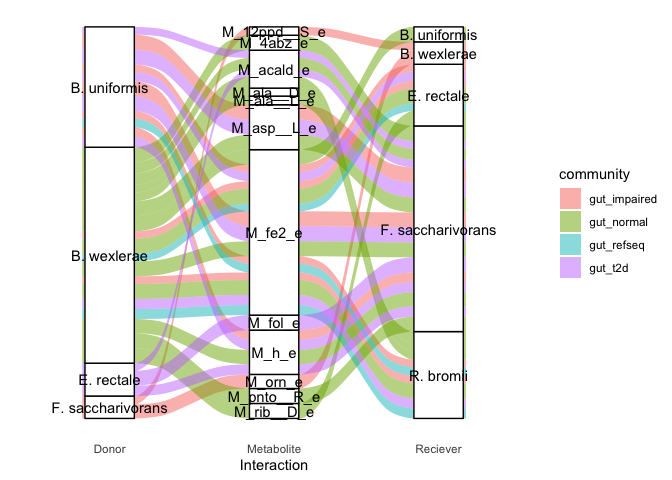
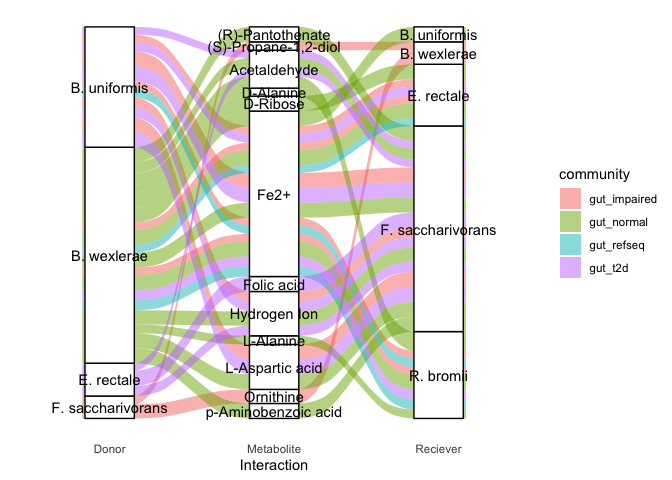
update script 4

Changed region(s): [[0.1875, 0.0312, 0.625, 0.875]]

diff --git a/scripts/4.plot_smetana_detailed_interactions.md b/scripts/4.plot_smetana_detailed_interactions.md
@@ -1,7 +1,14 @@
-📶 4. Visualize detailed interactions with alluvial diagrams
+📈 4. Visualize detailed interactions with alluvial diagrams
 ================
 Francisco Zorrilla
 15/01/2022
+
+You are now familiar with how the SMETANA detailed algorithm works, next
+we will inspect the output interaction predictions. This R-markdown
+document loads the summary file `smet_all.tsv` with 100 simulations for
+each community, plus any that you may have added. You may follow along
+passively on GitHub or launch the R-markdown document from Rstudio to
+interactively run through each code chunk.
 
 ## Packages
 
@@ -52,36 +59,80 @@ smet_all <- read.delim("../data/smet_all.tsv") %>%
      mutate(community=as.factor(community))%>%
      mutate(receiver=as.factor(receiver))%>%
      mutate(donor=as.factor(donor))%>%
-     mutate(compound=as.factor(compound))
+     mutate(compound=as.factor(compound)) %>%
+     mutate(compound=gsub("M_","",compound)) %>%
+     mutate(compound=gsub("_e","",compound))
+
+# Load in some taxonomy metadata
+smetana_don <- read.delim("../data/smetana_donors.tsv")
+smetana_rec <- read.delim("../data/smetana_receivers.tsv")
+
+smet_all<- left_join(left_join(smet_all,smetana_don,by="donor"),smetana_rec,by="receiver")%>%
+     mutate(taxonomy_donor=as.factor(taxonomy_donor))%>%
+     mutate(taxonomy_receiver=as.factor(taxonomy_receiver))
+
+# Load in some metabolite metadata
+smetana_met <- read.delim("../data/bigg_classes.txt")
+smet_all <- left_join(smet_all,smetana_met,by="compound")%>%
+     mutate(name=as.factor(name))%>%
+     mutate(super_class=as.factor(super_class))%>%
+     mutate(class=as.factor(class))%>%
+     mutate(sub_class=as.factor(sub_class))%>%
+     drop_na()%>%
+     unique()
 
 # Summary from data manipulation
 summary(smet_all)
 ```
 
-    ##         community                                         receiver  
-    ##  gut_impaired:105   322b_03182016.faa                         : 76  
-    ##  gut_normal  :100   376_03182016.faa                          : 75  
-    ##  gut_refseq  :134   230a_03182016.faa                         : 74  
-    ##  gut_t2d     :263   ERR671933_bin.3.s.faa                     : 70  
-    ##  kefir       :301   ERR260140_bin.10.p.faa                    : 68  
-    ##  soil        :284   GCF_002834225.1_ASM283422v1_protein.faa.gz: 68  
-    ##                     (Other)                                   :756  
-    ##                     donor           compound      ave_smet        
-    ##  261_03182016.faa      : 82   M_h_e     : 74   Min.   :0.0000344  
-    ##  ERR671933_bin.1.o.faa : 74   M_acald_e : 73   1st Qu.:0.0048700  
-    ##  ERR260140_bin.11.s.faa: 71   M_h2s_e   : 66   Median :0.0267010  
-    ##  ERR671933_bin.4.o.faa : 69   M_nh4_e   : 65   Mean   :0.1226602  
-    ##  290_03182016.faa      : 68   M_ala__D_e: 62   3rd Qu.:0.1092500  
-    ##  ERR260140_bin.13.s.faa: 68   M_h2o_e   : 58   Max.   :1.0000000  
-    ##  (Other)               :755   (Other)   :789                      
-    ##     sd_smet       
-    ##  Min.   :0.00000  
-    ##  1st Qu.:0.00589  
-    ##  Median :0.02263  
-    ##  Mean   :0.05531  
-    ##  3rd Qu.:0.06925  
-    ##  Max.   :0.50000  
-    ## 
+    ##         community     receiver            donor             compound        
+    ##  gut_impaired:136   Length:1432        Length:1432        Length:1432       
+    ##  gut_normal  :112   Class :character   Class :character   Class :character  
+    ##  gut_refseq  :165   Mode  :character   Mode  :character   Mode  :character  
+    ##  gut_t2d     :349                                                           
+    ##  kefir       :319                                                           
+    ##  soil        :351                                                           
+    ##                                                                             
+    ##     ave_smet            sd_smet                      taxonomy_donor
+    ##  Min.   :0.0000344   Min.   :0.000000   B. wexlerae         :268   
+    ##  1st Qu.:0.0053608   1st Qu.:0.006974   B. uniformis        :214   
+    ##  Median :0.0281186   Median :0.028747   E. rectale          :122   
+    ##  Mean   :0.1192487   Mean   :0.066600   L. lactis           : 96   
+    ##  3rd Qu.:0.1249512   3rd Qu.:0.086899   f_Thermoleophilaceae: 90   
+    ##  Max.   :1.0000000   Max.   :0.500000   F. saccharivorans   : 89   
+    ##                                         (Other)             :553   
+    ##          taxonomy_receiver               name     
+    ##  R. bromii        :238     Hydrogen Ion    :  74  
+    ##  E. rectale       :196     Acetaldehyde    :  73  
+    ##  F. saccharivorans:138     Hydrogen sulfide:  66  
+    ##  B. uniformis     :105     Ammonia         :  65  
+    ##  B. wexlerae      : 85     Ammonium        :  65  
+    ##  f_Phormidiaceae  : 85     D-Alanine       :  62  
+    ##  (Other)          :585     (Other)         :1027  
+    ##                           super_class 
+    ##  Homogeneous non-metal compounds:591  
+    ##  Organic acids and derivatives  :541  
+    ##  Organic oxygen compounds       :162  
+    ##  Homogeneous metal compounds    : 36  
+    ##  Organic nitrogen compounds     : 25  
+    ##  Organoheterocyclic compounds   : 21  
+    ##  (Other)                        : 56  
+    ##                                     class    
+    ##  Carboxylic acids and derivatives      :488  
+    ##  Non-metal oxoanionic compounds        :230  
+    ##  Homogeneous other non-metal compounds :188  
+    ##  Other non-metal organides             :173  
+    ##  Organooxygen compounds                :162  
+    ##  Homogeneous transition metal compounds: 36  
+    ##  (Other)                               :155  
+    ##                                 sub_class  
+    ##  Amino acids, peptides, and analogues:462  
+    ##                                      :226  
+    ##  Non-metal phosphates                :172  
+    ##  Other non-metal hydrides            : 79  
+    ##  Carbonyl compounds                  : 73  
+    ##  Other non-metal sulfides            : 66  
+    ##  (Other)                             :354
 
 # Kefir community
 
@@ -92,7 +143,7 @@ first step, plot the distribution of average SMETANA scores across
 metabolites.
 
 ``` r
-ggplot(smet_all %>% filter(community =="kefir"),aes(x=reorder(compound,ave_smet),y=ave_smet)) + geom_boxplot() + coord_flip()
+ggplot(smet_all %>% filter(community =="kefir"),aes(x=reorder(name,ave_smet),y=ave_smet)) + geom_boxplot() + coord_flip()
 ```
 
 ![](4.plot_smetana_detailed_interactions_files/figure-gfm/kefir_smet_distribution-1.png)<!-- -->
@@ -101,11 +152,11 @@ Let’s plot all interactions with high SMETANA score
 
 ``` r
 ggplot(smet_all %>% filter(community =="kefir",ave_smet>=0.90),
-       aes(axis1 = donor, axis2 = compound, axis3 = receiver,
+       aes(axis1 = taxonomy_donor, axis2 = name, axis3 = taxonomy_receiver,
            y = ave_smet)) +
     scale_x_discrete(limits = c("Donor", "Metabolite", "Reciever")) +
     xlab("Interaction") +
-    geom_alluvium(aes(fill = compound)) +
+    geom_alluvium(aes(fill = name)) +
     geom_stratum(width=0.3) +
     theme_minimal() + geom_text(stat = "stratum", aes(label = after_stat(stratum)),min.y=0.2)+theme_bw() + 
     theme(panel.border = element_blank(), panel.grid.major = element_blank(),panel.grid.minor = element_blank(), axis.line = element_line(colour = "black"),axis.line.y = element_blank(),axis.ticks.y = element_blank(),axis.text.y = element_blank(),axis.title.y = element_blank(),axis.line.x = element_blank(),axis.ticks.x = element_blank())
@@ -126,14 +177,14 @@ Filter down to some metabolites of interest to get a more interpretable
 plot
 
 ``` r
-mets = c("M_val__L_e","M_tyr__L_e","M_trp__L_e","M_his__L_e","M_phe__L_e","M_fol_e")
+mets = c("L-Valine","L-Tyrosine","L-Tryptophan","L-Histidine","L-Phenylalanine","Folic acid")
 
-ggplot(smet_all %>% filter(community =="kefir",compound%in%mets, ave_smet>=0.90),
-       aes(axis1 = donor, axis2 = compound, axis3 = receiver,
+ggplot(smet_all %>% filter(community =="kefir",name%in%mets, ave_smet>=0.90),
+       aes(axis1 = taxonomy_donor, axis2 = name, axis3 = taxonomy_receiver,
            y = ave_smet)) +
     scale_x_discrete(limits = c("Donor", "Metabolite", "Reciever")) +
     xlab("Interaction") +
-    geom_alluvium(aes(fill = compound)) +
+    geom_alluvium(aes(fill = name)) +
     geom_stratum(width=0.3) +
     theme_minimal() + geom_text(stat = "stratum", aes(label = after_stat(stratum)),min.y=0.2)+theme_bw() + 
     theme(panel.border = element_blank(), panel.grid.major = element_blank(),panel.grid.minor = element_blank(), axis.line = element_line(colour = "black"),axis.line.y = element_blank(),axis.ticks.y = element_blank(),axis.text.y = element_blank(),axis.title.y = element_blank(),axis.line.x = element_blank(),axis.ticks.x = element_blank())
@@ -153,7 +204,7 @@ ggplot(smet_all %>% filter(community =="kefir",compound%in%mets, ave_smet>=0.90)
 # Soil community
 
 ``` r
-ggplot(smet_all %>% filter(community =="soil"),aes(x=reorder(compound,ave_smet),y=ave_smet)) + geom_boxplot() + coord_flip()
+ggplot(smet_all %>% filter(community =="soil"),aes(x=reorder(name,ave_smet),y=ave_smet)) + geom_boxplot() + coord_flip()
 ```
 
 ![](4.plot_smetana_detailed_interactions_files/figure-gfm/soil_smet_distribution-1.png)<!-- -->
@@ -162,11 +213,11 @@ Let’s plot all interactions with high SMETANA score
 
 ``` r
 ggplot(smet_all %>% filter(community =="soil",ave_smet>=0.90),
-       aes(axis1 = donor, axis2 = compound, axis3 = receiver,
+       aes(axis1 = taxonomy_donor, axis2 = name, axis3 = taxonomy_receiver,
            y = ave_smet)) +
     scale_x_discrete(limits = c("Donor", "Metabolite", "Reciever")) +
     xlab("Interaction") +
-    geom_alluvium(aes(fill = compound)) +
+    geom_alluvium(aes(fill = name)) +
     geom_stratum(width=0.3) +
     theme_minimal() + geom_text(stat = "stratum", aes(label = after_stat(stratum)),min.y=0.2)+theme_bw() + 
     theme(panel.border = element_blank(), panel.grid.major = element_blank(),panel.grid.minor = element_blank(), axis.line = element_line(colour = "black"),axis.line.y = element_blank(),axis.ticks.y = element_blank(),axis.text.y = element_blank(),axis.title.y = element_blank(),axis.line.x = element_blank(),axis.ticks.x = element_blank())
@@ -187,14 +238,14 @@ Filter down to some metabolites of interest to get a more interpretable
 plot
 
 ``` r
-mets = c("M_pnto__R_e","M_glu__L_e","M_arg__L_e","M_thr__L_e")
+mets = c("(R)-Pantothenate","L-Glutamic acid","L-Arginine","L-Threonine")
 
-ggplot(smet_all %>% filter(community =="soil",compound%in%mets,ave_smet>=0.90),
-       aes(axis1 = donor, axis2 = compound, axis3 = receiver,
+ggplot(smet_all %>% filter(community =="soil",name%in%mets,ave_smet>=0.90),
+       aes(axis1 = taxonomy_donor, axis2 = name, axis3 = taxonomy_receiver,
            y = ave_smet)) +
     scale_x_discrete(limits = c("Donor", "Metabolite", "Reciever")) +
     xlab("Interaction") +
-    geom_alluvium(aes(fill = compound)) +
+    geom_alluvium(aes(fill = name)) +
     geom_stratum(width=0.3) +
     theme_minimal() + geom_text(stat = "stratum", aes(label = after_stat(stratum)),min.y=0.2)+theme_bw() + 
     theme(panel.border = element_blank(), panel.grid.major = element_blank(),panel.grid.minor = element_blank(), axis.line = element_line(colour = "black"),axis.line.y = element_blank(),axis.ticks.y = element_blank(),axis.text.y = element_blank(),axis.title.y = element_blank(),axis.line.x = element_blank(),axis.ticks.x = element_blank())
@@ -213,18 +264,14 @@ ggplot(smet_all %>% filter(community =="soil",compound%in%mets,ave_smet>=0.90),
 
 ### Human gut microbiome community
 
-Load in some taxonomy metadata and create `smet_gut` subset object for
-easy manipulation/plotting
+Subset object for easier manipulation/plotting
 
 ``` r
-smetana_don <- read.delim("../data/smetana_donors.tsv")
-smetana_rec <- read.delim("../data/smetana_receivers.tsv")
-
-smet_gut<- left_join(left_join(smet_all %>% filter(community!="soil",community!="kefir"),smetana_don,by="donor"),smetana_rec,by="receiver")
+smet_gut <- smet_all %>% filter(community!="soil",community!="kefir")
 ```
 
 ``` r
-ggplot(smet_gut, aes(x=reorder(compound,ave_smet),y=ave_smet)) + geom_boxplot() + facet_wrap(~community,scales="free") + coord_flip()
+ggplot(smet_gut, aes(x=reorder(name,ave_smet),y=ave_smet)) + geom_boxplot() + facet_wrap(~community,scales="free") + coord_flip()
 ```
 
 ![](4.plot_smetana_detailed_interactions_files/figure-gfm/gut_smet_distribution-1.png)<!-- -->
@@ -236,7 +283,7 @@ top predicted refseq model interactions
 
 ``` r
 ggplot(smet_gut %>% filter(ave_smet>=0.50),
-       aes(axis1 = taxonomy_donor, axis2 = compound, axis3 = taxonomy_receiver,
+       aes(axis1 = taxonomy_donor, axis2 = name, axis3 = taxonomy_receiver,
            y = ave_smet)) +
     scale_x_discrete(limits = c("Donor", "Metabolite", "Reciever")) +
     xlab("Interaction") +
@@ -261,7 +308,7 @@ Plot all interactions with SMETANA score &gt; 0.9
 
 ``` r
 ggplot(smet_gut %>% filter(ave_smet>=0.90),
-       aes(axis1 = taxonomy_donor, axis2 = compound, axis3 = taxonomy_receiver,
+       aes(axis1 = taxonomy_donor, axis2 = name, axis3 = taxonomy_receiver,
            y = ave_smet)) +
     scale_x_discrete(limits = c("Donor", "Metabolite", "Reciever")) +
     xlab("Interaction") +
@@ -286,5 +333,32 @@ Notice the observable differences in the metabolic exchange predictions
 across different conditions. For example, we can see that *B. uniformis*
 is an amino acid donor in disease states, while *B. wexlerae* is an
 important donor in the healthy microbiome.
+
+Filter out Fe2+ ion exchanges as pH-dependence is not accounted for in
+models. These exchanges may be possible, but further domain knowledge is
+needed to asses their feasibility.
+
+``` r
+ggplot(smet_gut %>% filter(ave_smet>=0.90,name!="Fe2+"),
+       aes(axis1 = taxonomy_donor, axis2 = name, axis3 = taxonomy_receiver,
+           y = ave_smet)) +
+    scale_x_discrete(limits = c("Donor", "Metabolite", "Reciever")) +
+    xlab("Interaction") +
+    geom_alluvium(aes(fill = community)) +
+    geom_stratum(width=0.3) +
+    theme_minimal() + geom_text(stat = "stratum", aes(label = after_stat(stratum)),min.y=0.2)+theme_bw() + 
+    theme(panel.border = element_blank(), panel.grid.major = element_blank(),panel.grid.minor = element_blank(), axis.line = element_line(colour = "black"),axis.line.y = element_blank(),axis.ticks.y = element_blank(),axis.text.y = element_blank(),axis.title.y = element_blank(),axis.line.x = element_blank(),axis.ticks.x = element_blank())
+```
+
+    ## Warning in to_lodes_form(data = data, axes = axis_ind, discern =
+    ## params$discern): Some strata appear at multiple axes.
+
+    ## Warning in to_lodes_form(data = data, axes = axis_ind, discern =
+    ## params$discern): Some strata appear at multiple axes.
+
+    ## Warning in to_lodes_form(data = data, axes = axis_ind, discern =
+    ## params$discern): Some strata appear at multiple axes.
+
+![](4.plot_smetana_detailed_interactions_files/figure-gfm/gut_interactions_all_90_nofe2-1.png)<!-- -->
 
 ## This is the end of part I of this tutorial, move on to [exercise 5](https://github.com/franciscozorrilla/SymbNET/blob/main/scripts/5.run_smetana_global_metrics.md)
